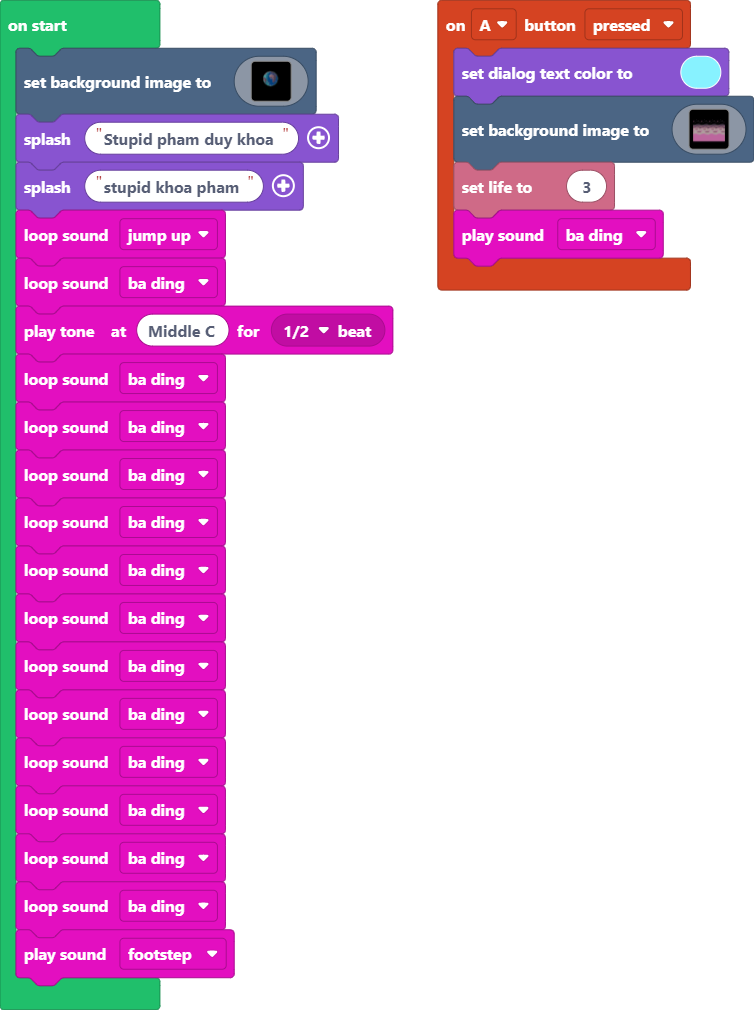
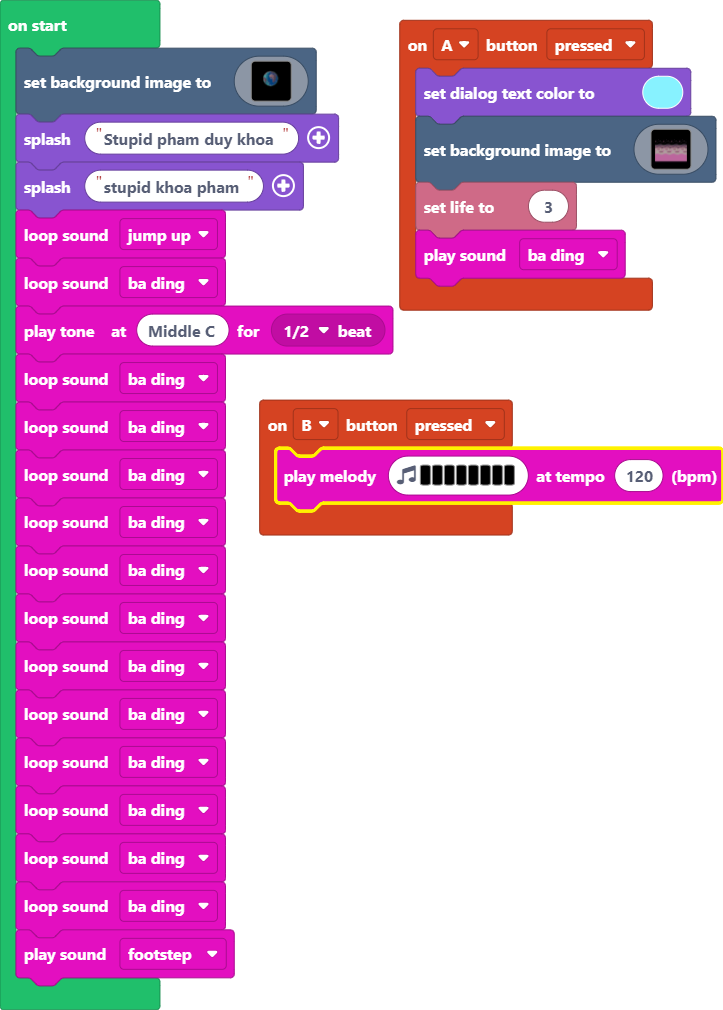
add button B

diff --git a/main.ts b/main.ts
@@ -1,3 +1,6 @@
+controller.B.onEvent(ControllerButtonEvent.Pressed, function () {
+    music.playMelody("E A F G E G B D ", 120)
+})
 controller.A.onEvent(ControllerButtonEvent.Pressed, function () {
     game.setDialogTextColor(9)
     scene.setBackgroundImage(img`
